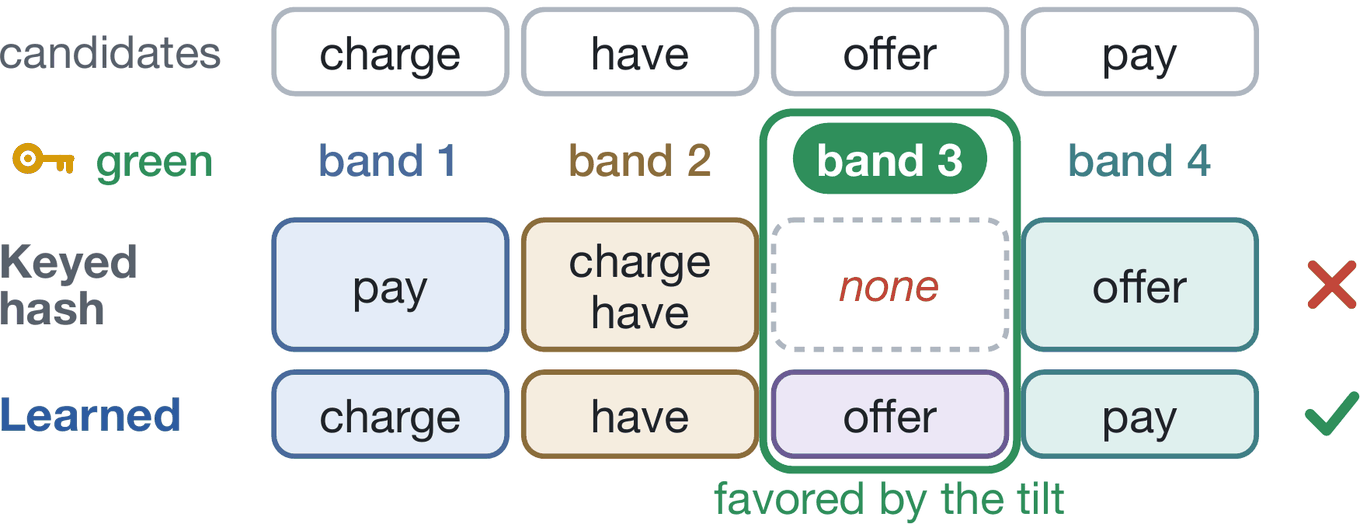
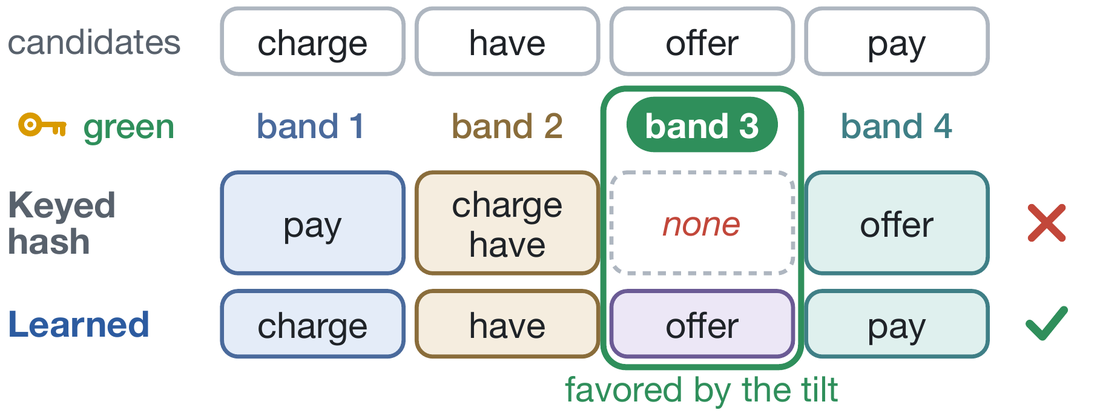
Rewrite the README around the method and results, and size the page figures consistently
The README now opens with a side-by-side decoding without and with the
watermark, explains why diffusion models are hard to watermark with a
horizontal motivation figure, and summarizes the method and the main
results before the usage notes. On the project page every figure uses one
scale relative to the paper, so their text has the same size and no figure
leaves the text column.

diff --git a/docs/index.html b/docs/index.html
@@ -90,7 +90,7 @@ header.top { padding-top: 4.4rem; }
 /* captions, notes */
 figure { margin: 1.9rem 0 2.1rem; }
 figure img { display: block; width: 100%; height: auto; margin: 0 auto; }
-.wrap > figure { max-width: 1000px; margin-left: auto; margin-right: auto; }
+.wrap > figure { max-width: 760px; margin-left: auto; margin-right: auto; }
 figcaption, .cap { font: 14px/1.55 var(--sans); color: var(--ink2); margin-top: 10px; }
 figcaption b, .cap b { color: var(--ink); font-weight: 600; }
 .sn { display: block; font: 13.8px/1.55 var(--sans); color: var(--ink3); margin: -.2em 0 1.25em; padding: 1px 0 1px 14px; border-left: 2px solid var(--rule); }
@@ -155,7 +155,7 @@ tbody tr:last-child td { border-bottom: 1.5px solid var(--ink); }
 tr.ours td { background: var(--blue-bg); }
 td.b { font-weight: 600; }
 th.grp { text-align: center; color: var(--ink3); }
-.pair { display: grid; grid-template-columns: minmax(0, 1fr) minmax(0, 1fr); gap: 12px 40px; align-items: start; max-width: 1000px; margin: 1.2rem auto 1.4rem; }
+.pair { display: grid; grid-template-columns: minmax(0, 1fr); gap: 4px; align-items: start; max-width: 760px; margin: 1.2rem auto 1.4rem; }
 .pair .tw { margin-top: .4rem; }
 
 /* citation */
@@ -261,7 +261,7 @@ footer { border-top: 1px solid var(--rule); margin-top: 3rem; padding: 1.5rem 0 
     <p>A unit that already occurs in the committed text adds no evidence, so this <em>unit-aware</em> score sets its green probability to γ, and repetition earns nothing. The tilt of DLM-KGW omits this correction and keeps rewarding repeated green units. Under this objective, the evidence that a commit can gain at a given distortion depends on two components that existing green-red DLM watermarks keep fixed, the partition of the vocabulary and the beliefs from which foresight is computed.</p>
   </div>
   <figure>
-    <img src="static/images/fig_overview.png" alt="Overview: the DLM canvas at position j, the learned bands, the foresight predictor, the tilt toward charge, and the detector that needs only the key and the bands" width="2064" height="827">
+    <img src="static/images/fig_overview.png" alt="Overview: the DLM canvas at position j, the learned bands, the foresight predictor, the tilt toward charge, and the detector that needs only the key and the bands" width="2064" height="827" style="max-width:740px">
     <figcaption class="col"><b>Our watermark at one masked position (illustrative tokens and probabilities).</b> The model prefers <i>have</i>, but the tilt moves its distribution toward <i>charge</i>, which is probably red itself but makes its predicted neighbors <i>low fees</i> green. Each module is learned offline from its own data (top), the tilt combines the own and foresight terms during generation (middle), and the detector needs only the key and the bands (bottom).</figcaption>
   </figure>
 </section>
@@ -270,7 +270,7 @@ footer { border-top: 1px solid var(--rule); margin-top: 3rem; padding: 1.5rem 0 
   <div class="col">
     <h2>Learned bands spread competing candidates</h2>
     <figure style="margin-top:0">
-      <img src="static/images/teaser_bands.png" alt="Four candidates, charge, have, offer and pay, assigned to four bands. A keyed hash puts charge and have into the same band and leaves the green band empty, while learned bands put each candidate into its own band" width="1360" height="524">
+      <img src="static/images/teaser_bands.png" alt="Four candidates, charge, have, offer and pay, assigned to four bands. A keyed hash puts charge and have into the same band and leaves the green band empty, while learned bands put each candidate into its own band" width="1100" height="413" style="max-width:355px">
     </figure>
     <aside class="sn"><b>Why the key still picks the band.</b> A green list learned without the key would be the same for every key, so unwatermarked text could match it and the null distribution would no longer be known.</aside>
     <p>Learned bands decouple the partition, which we learn, from the key, which only selects the green band. A partition assigns every token to one of four bands, and a keyed hash of the context selects one band as the green list (γ = 0.25, as in DLM-KGW). Because the key still picks the green band, the number of green units in any text that does not depend on the key has a known distribution for every partition, and the detector's <i>p</i>-value stays exact.</p>
@@ -287,7 +287,7 @@ footer { border-top: 1px solid var(--rule); margin-top: 3rem; padding: 1.5rem 0 
   <div class="col">
     <h2>The predictor sees the neighbors after placement</h2>
     <figure style="margin-top:0">
-      <img src="static/images/teaser_foresight.png" alt="Context Index funds, a masked position j and two masked neighbors. Prior work uses the same current beliefs for every candidate. With predicted post-placement beliefs, placing charge makes both neighbors green, low and fees, while have leads to lower costs, both red" width="1360" height="543">
+      <img src="static/images/teaser_foresight.png" alt="Context Index funds, a masked position j and two masked neighbors. Prior work uses the same current beliefs for every candidate. With predicted post-placement beliefs, placing charge makes both neighbors green, low and fees, while have leads to lower costs, both red" width="1100" height="438" style="max-width:355px">
     </figure>
     <p>Foresight needs the neighbors' beliefs once <i>v</i> is placed. Existing methods use the beliefs before placement, which are the same for every candidate, although placing a candidate changes the most likely token of a masked neighbor in 74% of uncertain commits, or <em>decision states</em>. Computing the post-placement beliefs exactly costs one generator pass per candidate.</p>
     <div class="ds" id="ds">
@@ -334,7 +334,7 @@ footer { border-top: 1px solid var(--rule); margin-top: 3rem; padding: 1.5rem 0 
     <h3>At low strengths, ours detects more at the same log-perplexity</h3>
     <p>Low strengths cost the least quality but leave detection uncertain, so extra evidence matters most there. Averaged over five keys on 300 prompts, ours detects 12.7 and 4.5 points more responses than DLM-KGW at 1% FPR at δ = 2 and 3, and 11.9 and 10.3 points more at 0.1% FPR, all significantly, with no significant difference in log-perplexity.</p>
     <figure>
-      <img src="static/images/fig_frontier.png" alt="TPR at 1% FPR against log-perplexity for ours, DLM-KGW and dgMARK. Ours lies above DLM-KGW at delta 2 and 3" width="1400" height="910" style="max-width:560px">
+      <img src="static/images/fig_frontier.png" alt="TPR at 1% FPR against log-perplexity for ours, DLM-KGW and dgMARK. Ours lies above DLM-KGW at delta 2 and 3" width="1400" height="910" style="max-width:355px">
       <figcaption><b>Detection against log-perplexity.</b> Numbers in the markers are δ, and arrows mark our gain at the same δ.</figcaption>
     </figure>
 
@@ -346,14 +346,14 @@ footer { border-top: 1px solid var(--rule); margin-top: 3rem; padding: 1.5rem 0 
     <p>Crossing the partition (keyed hash or learned bands) with the beliefs behind foresight (current or predicted) under the same objective isolates each component. Learned bands raise the mean <i>z</i>-score by 0.41–0.47 at every strength without raising log-perplexity, and the predictor raises it by 0.10–0.28 with either partition. Their gains are close to additive. Together, they detect 20.5 and 4.8 points more responses at 1% FPR at δ = 2 and 3, with no significant change in log-perplexity or judge score, and need 30% and 22% less KL for the same mean <i>z</i>-score.</p>
   </div>
   <figure>
-    <img src="static/images/fig_components.png" alt="Gains of learned bands only, the predictor only and both, at equal KL, equal mean z-score and equal TPR at 1% FPR" width="2064" height="624">
+    <img src="static/images/fig_components.png" alt="Gains of learned bands only, the predictor only and both, at equal KL, equal mean z-score and equal TPR at 1% FPR" width="2064" height="624" style="max-width:760px">
     <figcaption class="col"><b>Each component against the cell with neither</b> (keyed hash, current beliefs), in mean <i>z</i>-score at equal KL (a), KL saved at equal mean <i>z</i>-score (b) and log-perplexity at equal TPR@1% (c). Error bars are paired bootstrap 95% confidence intervals.</figcaption>
   </figure>
   <div class="col">
     <h3>Why post-placement beliefs matter</h3>
     <p>On 2,397 held-out decision states, foresight from the current beliefs is only weakly correlated with exact foresight (0.39) and explains none of its variance. The predictor recovers each neighbor's post-placement top-1 token in 61% of the cases, explains 49% of the variance, and ranks the exact best candidate first in 54% of the states, against 28% for the current beliefs. It costs 1.49 times the decoding time of current beliefs, against at least 2.15 times for exact foresight, which re-runs the generator for each candidate.</p>
     <figure>
-      <img src="static/images/fig_foresight.png" alt="Fidelity of current beliefs and the predictor to exact foresight, and the gain of the predictor in mean z-score at the same delta and at equal KL" width="1400" height="1210" style="max-width:500px">
+      <img src="static/images/fig_foresight.png" alt="Fidelity of current beliefs and the predictor to exact foresight, and the gain of the predictor in mean z-score at the same delta and at equal KL" width="1400" height="1210" style="max-width:370px">
       <figcaption><b>(a)</b> Fidelity to exact foresight on held-out decision states. <b>(b)</b> Gain of the predictor in mean <i>z</i>-score over current-belief foresight with learned bands, at the same δ and at equal KL, with 95% confidence intervals.</figcaption>
     </figure>
 

diff --git a/README.md b/README.md
@@ -10,70 +10,110 @@ Yonsei University
 [![License: MIT](https://img.shields.io/badge/license-MIT-3c9a62.svg)](LICENSE)
 ![Python 3.10+](https://img.shields.io/badge/python-3.10%2B-4a4a4a.svg)
 
-<img src="assets/overview.png" width="780" alt="One commit of the watermark: learned bands give each candidate's chance of being green, the foresight predictor gives its neighbors' beliefs after placement, and the tilt favors candidates with more expected green units">
+<img src="assets/demo.png" width="100%" alt="The same prompt decoded by LLaDA-8B-Instruct without a watermark and with ours. Without it, 23% of the units are green and z = -0.53. With it, 47% are green and z = 7.09.">
+
+<sub>The same prompt and random seed, decoded by LLaDA-8B-Instruct without a watermark and with ours (δ = 4). Each token forms a unit with
+its two preceding tokens, and the detector counts every distinct unit once. By chance about a quarter of the units are green, and the
+watermark raises that share to 47%, a z-score of 7.1. The interactive version on the <a href="https://hyojuun.github.io/lfbb/">project page</a>
+replays the decoding.</sub>
 
 </div>
 
-Diffusion language models such as LLaDA and Dream unmask a canvas of tokens in an order that is not left to right. A green-red
-watermark for these models therefore often has to choose a token before the tokens that select its green list, and the chosen token
-later shapes the green lists of its neighbors. DLM-KGW handles both with the model's beliefs about the masked positions. Under a KL
-penalty, it tilts each commit toward candidates that are likely to be green or that make their neighbors green. We build on this view
-and learn the two components that it keeps fixed:
+**TL;DR** Diffusion language models write out of order, so a green-red watermark often has to pick a token before it knows which
+tokens are green. We learn the two parts that existing watermarks for these models keep fixed, which tokens compete for the same green
+list and how a token changes its neighbors, and detect up to 18 points more responses at the same strength while matching the quality of
+unwatermarked text.
 
-- **Learned bands.** A keyed hash puts the two most likely candidates of a commit into the same band in a quarter of the commits, and
-  when another band is green, the tilt then has little to favor. We learn a partition of the vocabulary into four bands from decoding
-  traces, so that competing candidates fall into different bands. A keyed hash of the context still picks the green band, so the
-  detector's null distribution stays exact.
-- **A foresight predictor.** DLM-KGW scores a candidate's effect on its neighbors with their beliefs before placement, which are the
-  same for every candidate. We distill a network from the generator's top layers that predicts the neighbors' beliefs after placing
-  each candidate, for all candidates of a commit in one batched pass.
+## Why diffusion language models are hard to watermark
 
-The tilt also counts evidence the way the detector does, once per distinct (context, token) unit, so repetition earns nothing. The
-figure above traces one commit through both components, and the one below shows what each of them changes at a single position.
-Detection needs only the text, the key and the partition, and it never runs the language model or the predictor.
+A diffusion language model writes the way people solve a crossword. It fills the blanks it is surest of first and comes back to the
+rest. A green-red watermark, however, picks each token's green list from the tokens before it, and in LLaDA-8B-Instruct 39% of the
+tokens are written while part of that context is still blank. The watermark therefore has to choose a token before it knows which list is
+green, and the token it chooses then decides the green lists of the next two tokens.
+
+Prior work, DLM-KGW, handles both cases with the model's predictions for the blanks. It tilts each choice toward tokens that are
+likely to be green or that make their neighbors green. How much one choice can gain, though, depends on two things that it keeps fixed.
 
 <p align="center">
-  <img src="assets/teaser.png" width="400" alt="Learned bands spread competing candidates, and predicted post-placement beliefs let foresight favor a red candidate that makes both neighbors green"><br>
-  <sub>(a) Learned bands spread the competing candidates over the bands, which a keyed hash may not. (b) Predicted post-placement
-  beliefs let foresight favor <i>charge</i>, which is red but makes both neighbors green (illustrative tokens).</sub>
+  <img src="assets/motivation.png" width="100%" alt="(a) A keyed hash puts charge and have into the same band and leaves the green band empty, while learned bands give each candidate its own band. (b) Before placement the neighbors' predictions are the same for every candidate, but placing charge makes both neighbors green.">
 </p>
 
-## Contents
+- **(a) How the vocabulary is split into bands.** A keyed hash puts the two most likely candidates of a commit into the same band in a
+  quarter of the commits, and when another band is green the tilt then has little to favor.
+- **(b) Which predictions foresight reads.** Existing methods judge a candidate's effect on its neighbors from their predictions before
+  the candidate is placed, which are the same for every candidate. Yet placing a candidate changes a masked neighbor's most likely token
+  in about three quarters of the uncertain commits.
 
-- [Installation](#installation)
-- [Quick start](#quick-start)
-- [Development prompts](#development-prompts)
-- [Learning the components](#learning-the-components)
-- [Evaluation](#evaluation)
-- [Repository structure](#repository-structure)
-- [Citation](#citation)
+## Method
 
-## Installation
+We keep the idea of tilting each commit toward green evidence and learn both of these parts.
 
-Two Python environments keep the generators' pinned Transformers version apart from the evaluation libraries.
+<p align="center">
+  <img src="assets/overview.png" width="100%" alt="One commit of the watermark: learned bands give each candidate's chance of being green, the foresight predictor gives its neighbors' beliefs after placement, the tilt favors charge, and the detector needs only the key and the bands.">
+</p>
+
+- **Learned bands.** A partition of the vocabulary into four bands, learned from decoding traces so that competing candidates fall into
+  different bands. The key still picks the green band in each context, so the null distribution of the detector stays exact for any
+  partition.
+- **A foresight predictor.** An adapter and copies of the generator's top eight layers, distilled from the generator's own predictions
+  after a candidate is placed. It scores every candidate of a commit in one batched pass and runs only for the position that wins the
+  commit.
+- **Evidence counted like the detector.** The tilt credits each distinct (context, token) unit once, as the detector counts it, so
+  repetition earns nothing.
+
+Detection needs only the text, the key and the band table. It never runs the language model or the predictor.
+
+## Results
+
+WaterBench-600 with LLaDA-8B-Instruct (low-confidence order, 256 tokens, temperature 0.5). TPR uses thresholds calibrated on 600
+unwatermarked responses detected under 100 keys, log-perplexity is measured with Qwen3-8B, and the judge, Gemma-4-12B-it, rates style
+and consistency from 1 to 10. Loops is the share of responses with a repetition loop. Baselines run from their official code.
+
+| Method | δ | TPR@1% ↑ | TPR@0.1% ↑ | log-PPL ↓ | Judge ↑ | Loops (%) ↓ |
+|---|:-:|:-:|:-:|:-:|:-:|:-:|
+| No watermark | – | – | – | 1.297 | 9.12 | 19.3 |
+| dgMARK (greedy) | – | 92.7 | 84.2 | 1.550 | 9.07 | 16.2 |
+| DLM-KGW | 2 | 51.3 | 24.8 | **1.316** | 9.13 | 19.3 |
+| **Ours** | 2 | **69.5** | **44.0** | 1.326 | **9.29** | **18.2** |
+| DLM-KGW | 3 | 85.7 | 70.0 | **1.387** | 8.97 | 23.3 |
+| **Ours** | 3 | **89.3** | **79.3** | 1.398 | **9.30** | **14.0** |
+| DLM-KGW | 4 | 96.0 | 91.3 | 1.506 | 8.62 | 26.3 |
+| **Ours** | 4 | **96.2** | **92.7** | **1.469** | **9.32** | **14.3** |
+| DLM-KGW | 5 | 97.7 | 95.3 | 1.602 | 8.15 | 30.5 |
+| **Ours** | 5 | **98.3** | **96.0** | **1.575** | **9.26** | **12.2** |
+
+- **More detections where it is hardest.** At low strengths the quality cost is smallest but detection is uncertain. Averaged over five
+  keys on 300 prompts, ours detects 12.7 and 4.5 points more responses than DLM-KGW at 1% FPR at δ = 2 and 3, with no significant
+  difference in log-perplexity.
+- **No loss of quality when the watermark is strong.** At δ = 4 and 5 the judge rates ours as high as unwatermarked text, while
+  DLM-KGW drops to 8.62 and 8.15. Its tilt keeps rewarding repeated green units, and its share of looping responses grows from 19% to
+  31%.
+- **Each component helps, and their gains add up.** Learned bands raise the mean z-score by 0.41 to 0.47 at every strength and the
+  predictor by 0.10 to 0.28 with either partition. Together they reach the same mean z-score with 30% and 22% less KL at δ = 2 and 3.
+- **Beyond one model and one task.** LLaDA's bands transferred to Dream detect 75.5% of the responses at δ = 4 against 56.5% for
+  DLM-KGW, and on code and question answering ours detects as many or more without a significant loss in accuracy.
+
+<p align="center">
+  <img src="assets/components.png" width="100%" alt="Gains of learned bands only, the predictor only and both, in mean z-score at equal KL, KL saved at equal mean z-score and log-perplexity at equal TPR.">
+  <br><sub>Each component against keyed-hash bands with current predictions, in mean z-score at equal KL (a), KL saved at equal mean
+  z-score (b) and log-perplexity at equal TPR@1% (c). Error bars are paired bootstrap 95% confidence intervals.</sub>
+</p>
+
+## Getting started
+
+Two Python environments keep the generators' pinned Transformers version apart from the evaluation libraries. Python 3.10 or later and
+a CUDA GPU are required.
 
 ```bash
 pip install -r requirements.txt          # decoding, training, detection, prompt preparation (Transformers 4.49)
 pip install -r requirements-eval.txt     # separate environment for score_ppl.py, judge.py and attack_paraphrase.py (vLLM)
 ```
 
-Python 3.10 or later and a CUDA GPU are required. The baselines, DLM-KGW and dgMARK, run from their official code at these commits:
+The band table and the predictor are kept secret together with the key, so the ones behind the paper are not distributed. The commands
+below use a band table and a predictor learned as in [Reproducing the paper](#reproducing-the-paper), and every command runs from the
+repository root.
 
-```bash
-git clone https://github.com/eth-sri/diffusion-lm-watermark external/diffusion-lm-watermark
-git -C external/diffusion-lm-watermark checkout 380a4bef
-git clone https://github.com/pyomin/dgmark-watermarking external/dgmark-watermarking
-git -C external/dgmark-watermarking checkout cb6d79ff
-```
-
-All commands below run from the repository root.
-
-## Quick start
-
-The partition and the predictor are kept secret together with the key, so the ones behind the paper are not distributed. The
-commands below use a partition and a predictor learned as in [Learning the components](#learning-the-components).
-
-**Detect.** Detection needs the tokenizer, the key and the partition, but not the language model.
+**Detect.** Detection needs the tokenizer, the key and the band table, but not the language model.
 
 ```python
 from transformers import AutoTokenizer
@@ -84,7 +124,7 @@ part = load_partition("checkpoints/bands.pt", key=42, special_ids=load_special_i
 n, k, z, p = detect(part, tok(text, add_special_tokens=False)["input_ids"])   # units, green units, z-score, exact p-value
 ```
 
-`load_partition("hash", ...)` gives the keyed-hash partition of standard green-red watermarks, which needs no training.
+`load_partition("hash", ...)` gives the keyed-hash bands of standard green-red watermarks, which need no training.
 
 **Generate.** Watermarked decoding of a prompt file with LLaDA-8B-Instruct:
 
@@ -101,13 +141,29 @@ four bands, two-token contexts, the consistent commit order, a predictor gate of
 treated as red. `--commits-per-step K` unmasks K tokens per forward pass, and `--refresh 2` lets the predictor update the beliefs
 around each commit within a step.
 
-## Development prompts
+## Reproducing the paper
+
+The baselines, DLM-KGW and dgMARK, run from their official code at these commits:
+
+```bash
+git clone https://github.com/eth-sri/diffusion-lm-watermark external/diffusion-lm-watermark
+git -C external/diffusion-lm-watermark checkout 380a4bef
+git clone https://github.com/pyomin/dgmark-watermarking external/dgmark-watermarking
+git -C external/dgmark-watermarking checkout cb6d79ff
+```
+
+Each file in `configs/reproduce/` lists the commands of one result, and `scripts/reproduce.py` runs them in order. `--dry-run` prints
+them, `--only NAME` runs one step, and `--set PY_EVAL=/path/to/eval-env/bin/python` points the scoring steps to the evaluation
+environment. Generation resumes where it stopped.
+
+<details>
+<summary><b>Prompt splits</b></summary>
 
 The prompts are split before anything is learned or tuned, and the evaluation prompts are never used to compare settings.
 
 | Split | File | Prompts | Used for |
 |---|---|---|---|
-| Train | `data/train_prompts_llada.jsonl` | 3,000 (1,000 per task) | decoding traces for the partition, decision states for the predictor |
+| Train | `data/train_prompts_llada.jsonl` | 3,000 (1,000 per task) | decoding traces for the bands, decision states for the predictor |
 | Development | `data/dev150_prompts_llada.jsonl` | 150 (50 per task) | comparing settings of the watermark (`scripts/select_dev.py`) |
 | Confirmation | `data/devB150_prompts_llada.jsonl` | 150 (50 per task) | one check before freezing, needed only when two or more settings change |
 | Evaluation | WaterBench-600 (`scripts/prepare_waterbench.py`) | 600 | the reported results, decoded once with the frozen setting |
@@ -122,7 +178,10 @@ loops do not get worse.
 python scripts/reproduce.py configs/reproduce/dev_selection.json   # decode the candidates on the development prompts and compare
 ```
 
-## Learning the components
+</details>
+
+<details>
+<summary><b>Learning the components</b></summary>
 
 ```bash
 python scripts/reproduce.py configs/reproduce/components.json
@@ -130,14 +189,17 @@ python scripts/reproduce.py configs/reproduce/components.json
 
 1. **Traces.** The 3,000 training prompts are decoded without a watermark in the low-confidence order used for evaluation
    (`collect_records.py`).
-2. **Partition.** Coordinate ascent on these traces assigns every token to a band so that the likely candidates of a commit are spread
-   over the bands (`learn_bands.py`, with four bands, or eight for the band-count comparison on the development prompts).
+2. **Bands.** Coordinate ascent on these traces assigns every token to a band so that the likely candidates of a commit are spread over
+   the bands (`learn_bands.py`, with four bands, or eight for the band-count comparison on the development prompts).
 3. **Decision states.** The training prompts are decoded again with the watermark, and at every uncertain commit each of the top-8
    candidates is placed and the generator re-run, which records the exact post-placement beliefs of its neighbors (`collect_states.py`).
 4. **Predictor.** Copies of the generator's top eight layers and an adapter are distilled on these states, keeping the epoch with the
    lowest loss on held-out training prompts (`train_predictor.py`).
 
-## Evaluation
+</details>
+
+<details>
+<summary><b>Evaluation</b></summary>
 
 The WaterBench prompts are built from the official DLM-KGW repository, and the code and QA prompts from their sources (GPQA is gated
 and must not be redistributed, so `data/codeqa/` stays local).
@@ -147,15 +209,8 @@ python scripts/prepare_waterbench.py --source external/diffusion-lm-watermark/da
 python scripts/render_prompts.py --texts data/other_tasks_prompts.jsonl --out data/other_tasks_llada.jsonl
 python scripts/prepare_codeqa.py --humaneval raw/human-eval-v2-20210705.jsonl --mbpp raw/mbpp.jsonl --gpqa raw/gpqa_diamond.csv \
     --out-dir data/codeqa
-```
-
-Each file in `configs/reproduce/` lists the commands of one result, and `scripts/reproduce.py` runs them in order. `--dry-run` prints
-them, `--only NAME` runs one step, and `--set PY_EVAL=/path/to/eval-env/bin/python` points the scoring steps to the evaluation
-environment. Generation resumes where it stopped.
-
-```bash
 python scripts/reproduce.py configs/reproduce/table1.json   # comparison with DLM-KGW and dgMARK on WaterBench-600
-python scripts/reproduce.py configs/reproduce/table2.json   # the partition crossed with the source of foresight
+python scripts/reproduce.py configs/reproduce/table2.json   # the bands crossed with the source of foresight
 ```
 
 Thresholds are calibrated on unwatermarked responses, pooled over 100 keys for the keyed detectors. `scripts/report.py` gives the mean
@@ -163,13 +218,15 @@ z-score, the calibrated and nominal TPR at 1% and 0.1% FPR, log-perplexity (Qwen
 (Gemma-4-12B-it), with paired bootstrap intervals for each contrast. Rows decoded together share their random numbers, so token-level
 reproduction needs the same GPU type, library versions and config file.
 
+</details>
+
 <details>
 <summary><b>Other experiments</b></summary>
 
 | Experiment | Configs (`configs/arms/`) | Scripts and options |
 |---|---|---|
 | Code and QA | `ours_d3_d4` | `prepare_codeqa.py`, `eval_codeqa.py`<br>components learned on code and QA with `prepare_codeqa_train.py --ids data/codeqa_train_ids.json` and `train_predictor.py --init` |
-| Dream-v0-Instruct-7B | `dream`, `dream_current` | `--family dream`<br>`transfer_partition.py` and `generate.py --transfer` for LLaDA's partition<br>`report.py --validity Dream-org/Dream-v0-Instruct-7B --missing-z 0` |
+| Dream-v0-Instruct-7B | `dream`, `dream_current` | `--family dream`<br>`transfer_partition.py` and `generate.py --transfer` for LLaDA's bands<br>`report.py --validity Dream-org/Dream-v0-Instruct-7B --missing-z 0` |
 | Robustness | `robustness_d4`, `unwatermarked` | `--prompt-ids data/robustness90_ids.json`<br>`attack_paraphrase.py`, `attack_eval.py` |
 | Other writing tasks | as for Table 1 | `--prompts data/other_tasks_llada.jsonl`, `report.py --datasets` |
 | Several tokens per step | `ours_d3_d4`, `unwatermarked` | `generate.py --commits-per-step K --refresh {0,2}`<br>`run_dlm_kgw.py --steps 256/K` |
@@ -184,7 +241,7 @@ Each script documents its options and gives an example in its header (`python sc
 ## Repository structure
 
 ```
-lfbb/                    the method: partition and green bands, detector, LLaDA and Dream samplers, foresight predictors
+lfbb/                    the method: bands and keyed green band, detector, LLaDA and Dream samplers, foresight predictors
 scripts/                 prompt preparation, learning the components, setting selection, generation, calibration, evaluation, attacks
 scripts/baselines/       drivers for the official code of DLM-KGW and dgMARK
 configs/arms/            watermark configurations, including the development candidates
